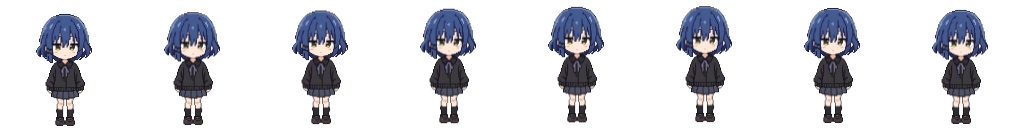
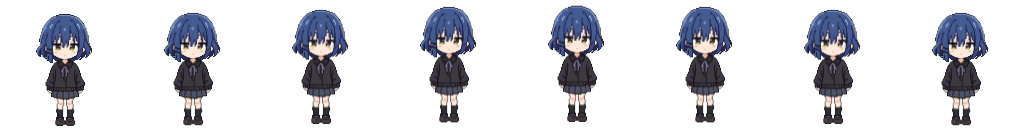
fix(assets): idle 呼吸循环首尾闭合，消除每轮末尾的上跳
原参数 1→1.02→1.04→1.02 加密到 8 帧后末帧为 1.01，回不到 1.00，
末帧→首帧头顶跳变 5px（相邻帧仅 2px）。改为余弦相位采样，
末→首差异 4% 低于相邻帧 7%。

diff --git a/tools/gen_assets_from_photos.py b/tools/gen_assets_from_photos.py
@@ -87,11 +87,19 @@ def densify(params: list, target: int) -> list:
 #
 # ⚠ 关于周期：manifest.json 里 fps 同步翻倍，frames/fps 保持恒等。
 ACTIONS = {
-    # 站立呼吸：轻微起伏 + 胸腔缩放（原 4 帧 → 8 帧，幅度 ×2）
-    "idle": densify([
-        ("stand", 1, 1, 0, 0), ("stand", 1, 1.02, 0, -2),
-        ("stand", 1, 1.04, 0, -4), ("stand", 1, 1.02, 0, -2),
-    ], 8),
+    # 站立呼吸：余弦采样 8 帧（1.0 → 1.04 → 1.0），首尾严格闭合。
+    # 原来用 densify(1→1.02→1.04→1.02) 加密 8 帧后末帧是 1.01 回不到 1.0，
+    # 循环末尾头顶会突然上跳 5px（相邻帧只有 2px），故改为按相位采样。
+    "idle": [
+        ("stand", 1, 1.0000, 0, 0.00),
+        ("stand", 1, 1.0059, 0, -0.59),
+        ("stand", 1, 1.0200, 0, -2.00),
+        ("stand", 1, 1.0341, 0, -3.41),
+        ("stand", 1, 1.0400, 0, -4.00),
+        ("stand", 1, 1.0341, 0, -3.41),
+        ("stand", 1, 1.0200, 0, -2.00),
+        ("stand", 1, 1.0059, 0, -0.59),
+    ],
     # 被拎着：用真·拎起动画 sheet（4帧循环两遍，无需仿射变换）
     "dragged": [
         ("dragged0", 1, 1, 0, 0), ("dragged1", 1, 1, 0, 0),
